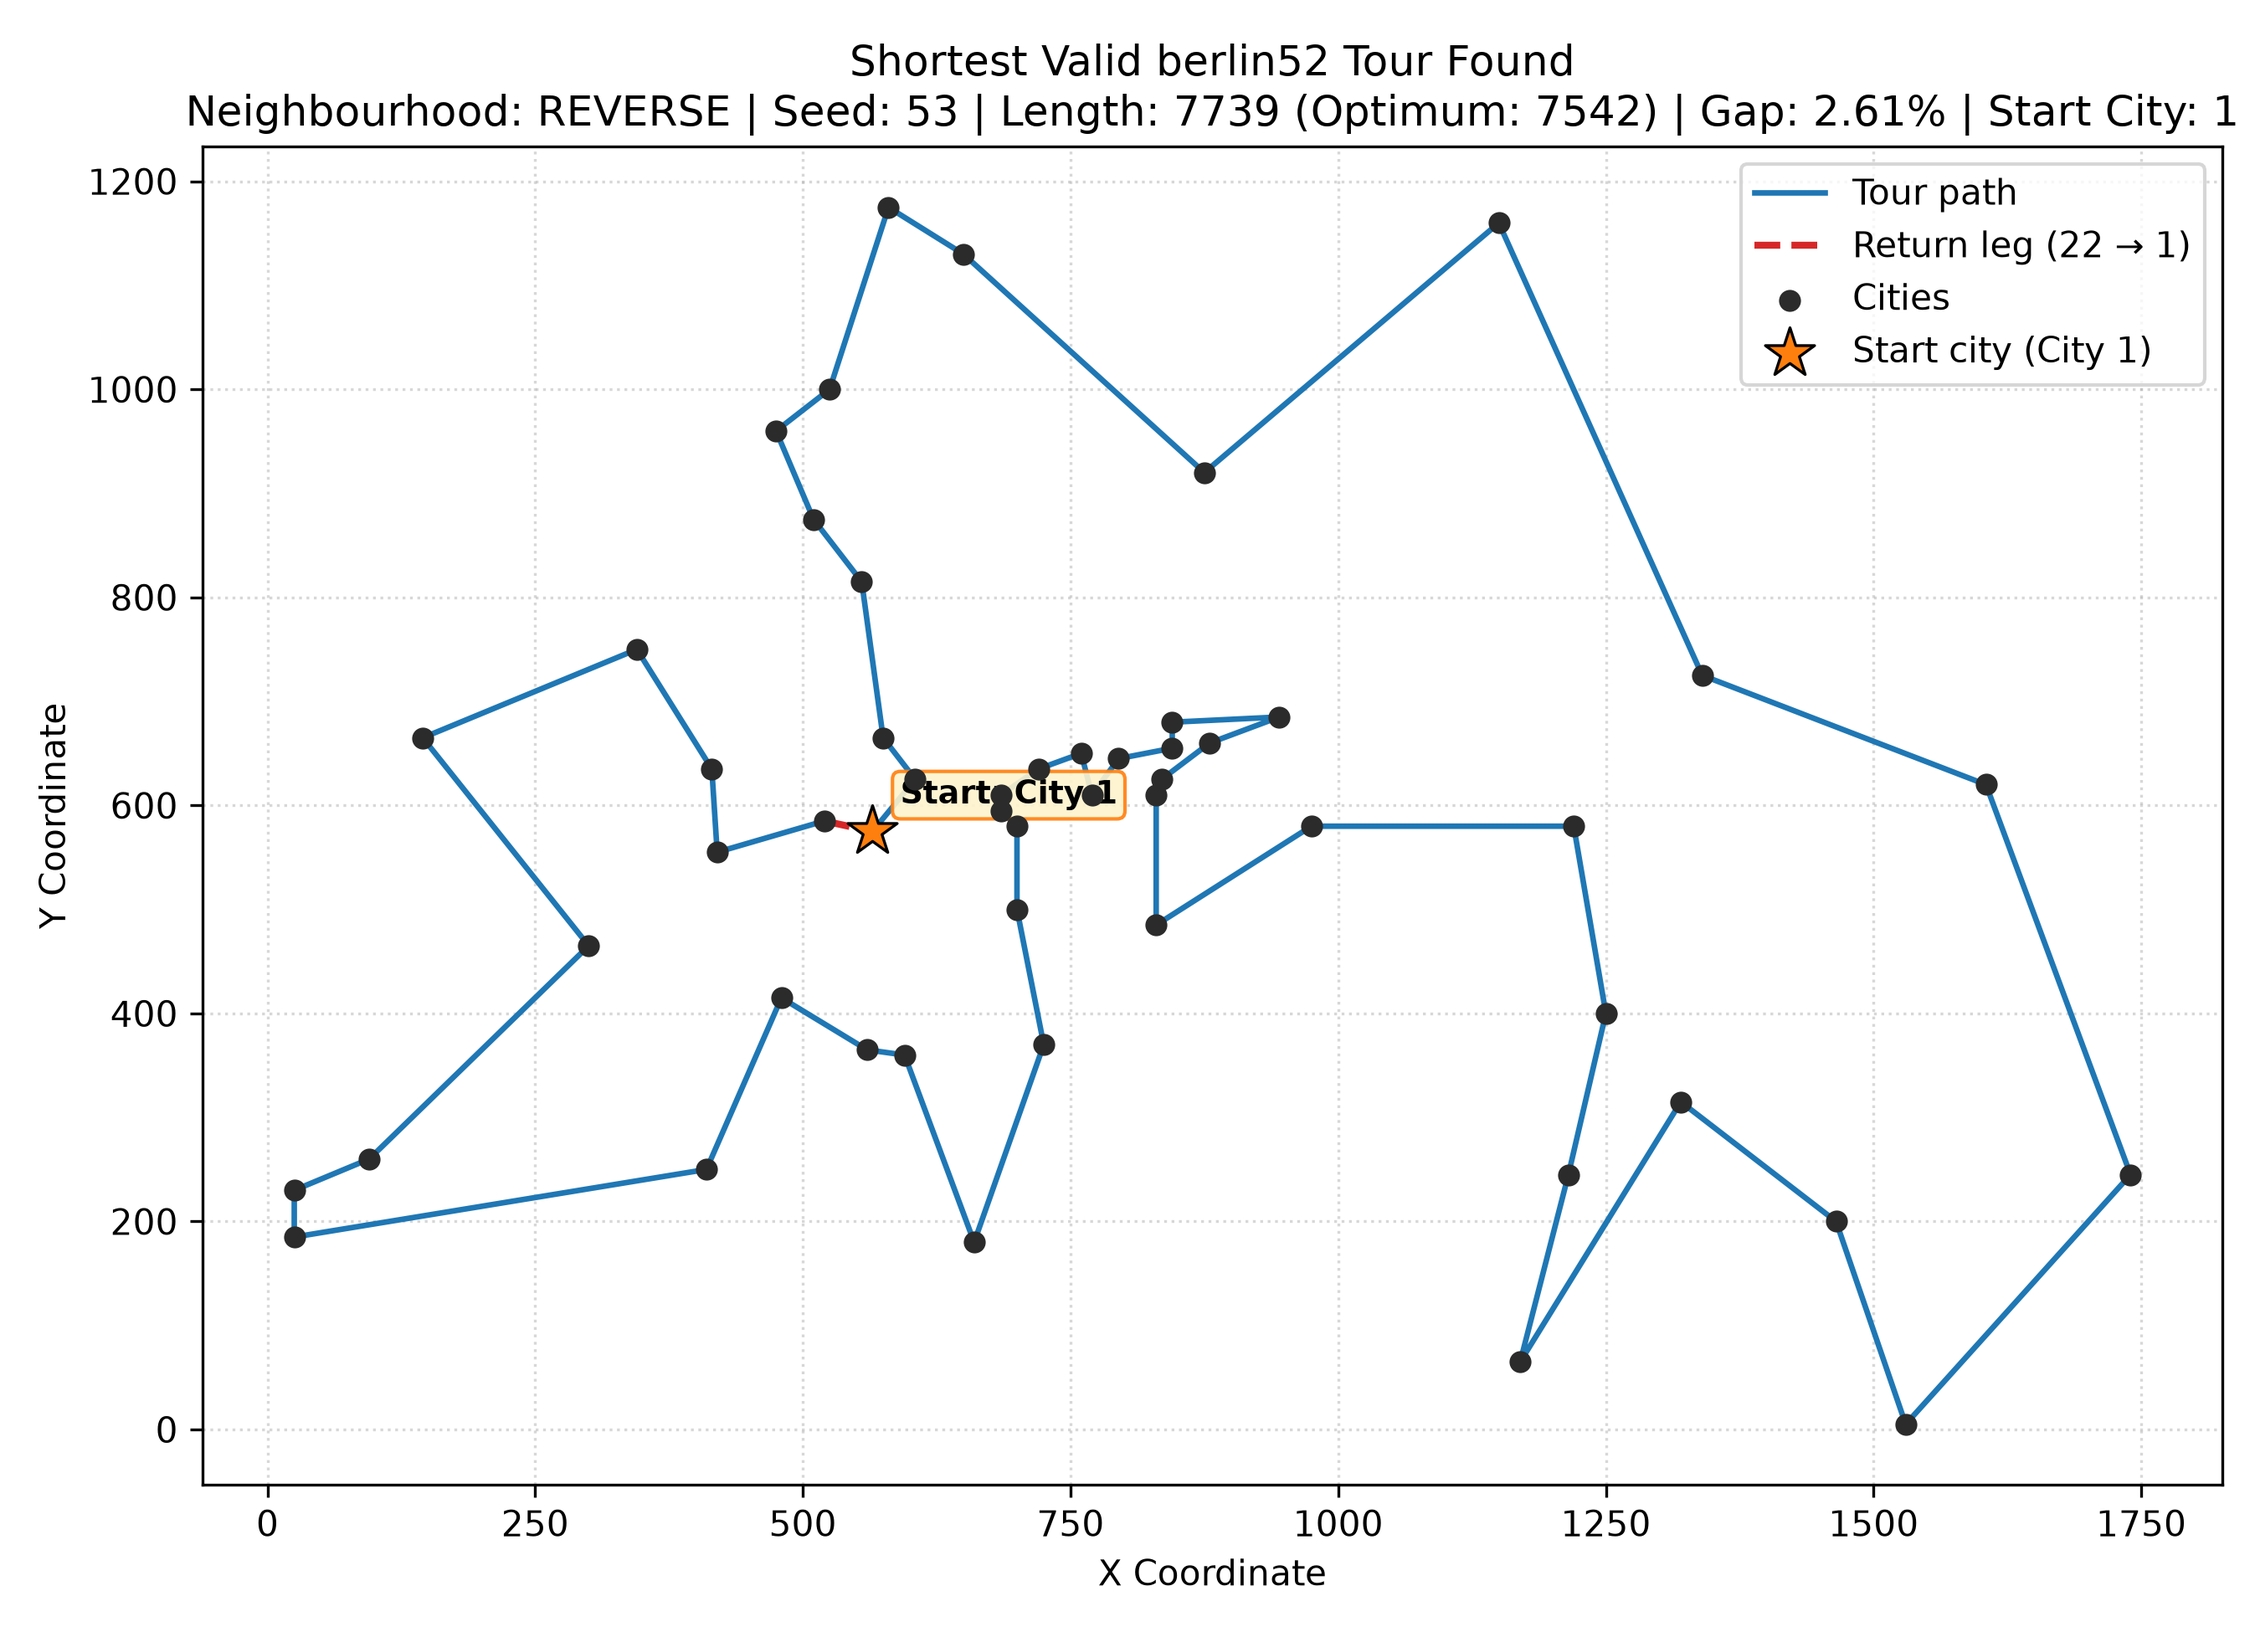
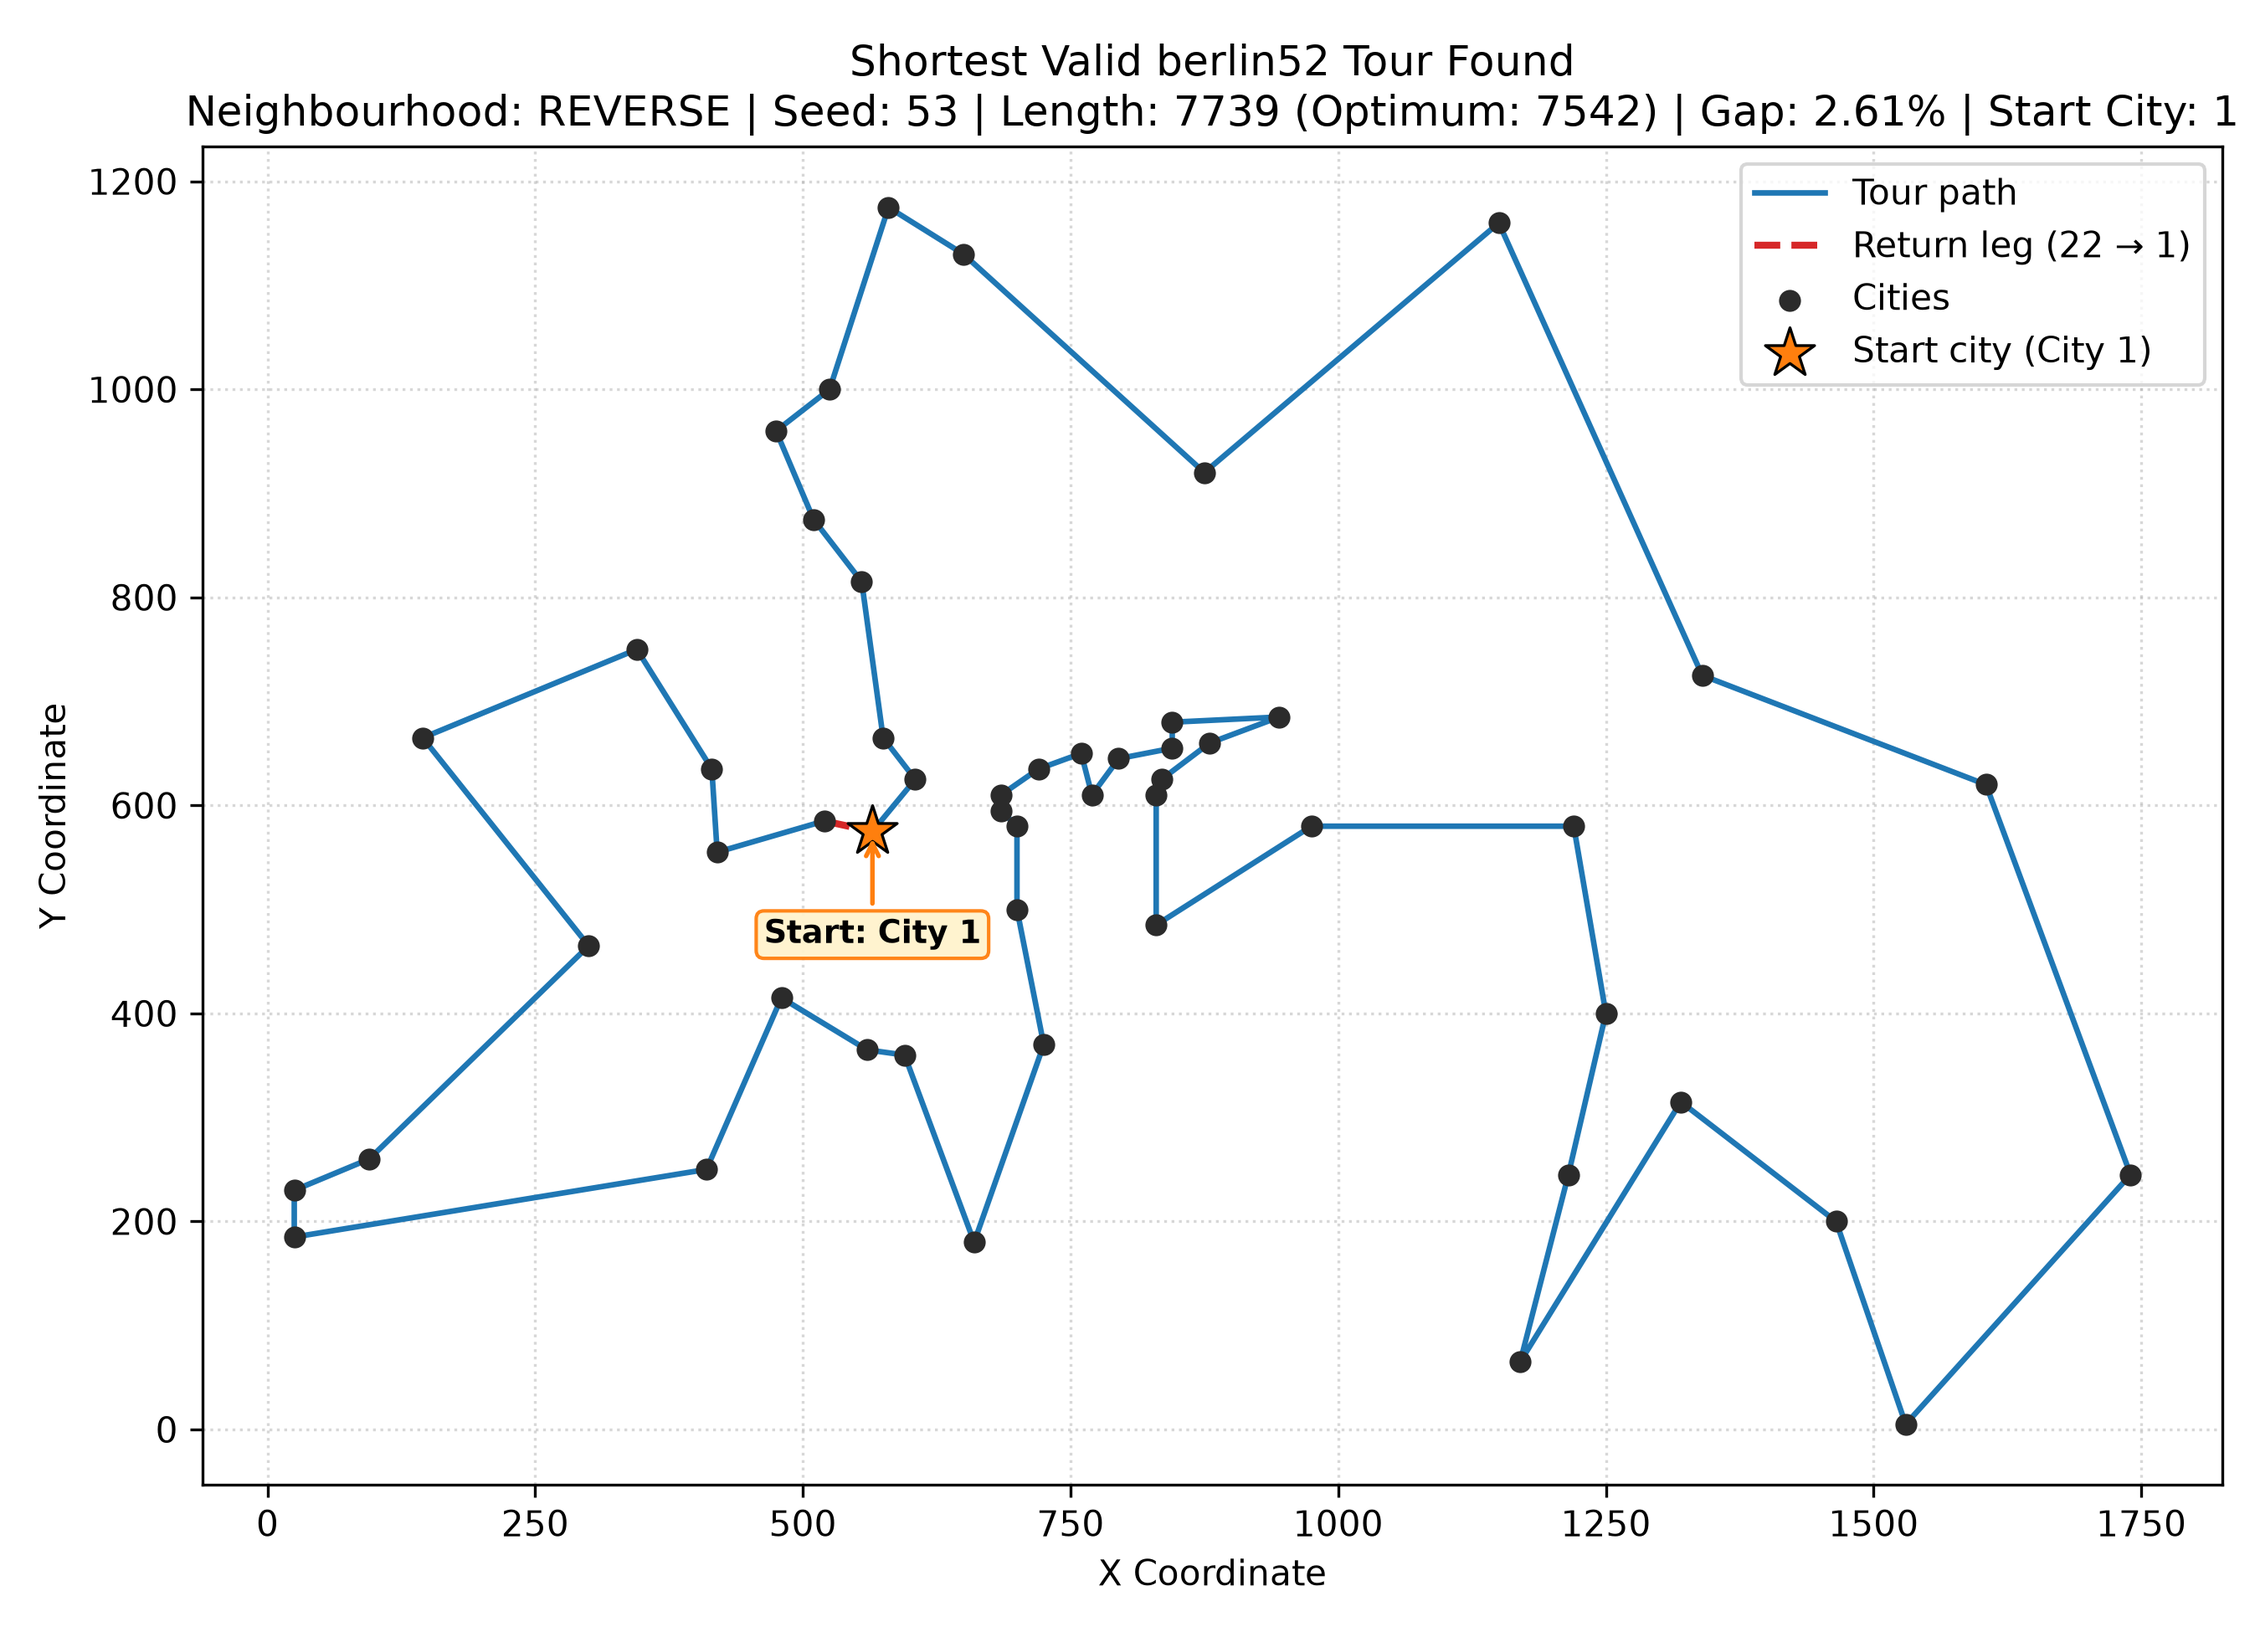
fix(ba): remove duplicate boxplot fliers and reposition berlin52 start label

Changed region(s): [[0.3733, 0.4615, 0.4978, 0.5231], [0.3111, 0.5538, 0.4356, 0.6154]]

diff --git a/bees_algorithm/utils/plotting.py b/bees_algorithm/utils/plotting.py
@@ -216,11 +216,14 @@ def plot_best_berlin52_route(
     ax.annotate(
         f"Start: City {start_city}",
         xy=(coords[start_city][0], coords[start_city][1]),
-        xytext=(8, 8),
+        xytext=(0, -32),
         textcoords="offset points",
+        ha="center",
         fontsize=9,
         fontweight="bold",
-        bbox=dict(boxstyle="round,pad=0.25", fc="#fff3cd", ec="#ff7f0e", alpha=0.9),
+        bbox=dict(boxstyle="round,pad=0.25", fc="#fff3cd", ec="#ff7f0e", alpha=0.95),
+        arrowprops=dict(arrowstyle="->", color="#ff7f0e", lw=1.3),
+        zorder=6,
     )
 
     tour_len = float(best_row["final_best"])
@@ -354,6 +357,7 @@ def plot_d30_boxplots(
         ax.boxplot(
             vals,
             widths=0.45,
+            showfliers=False,
             patch_artist=True,
             boxprops=dict(facecolor="#cfe2f3", color="#1f77b4", linewidth=1.3),
             medianprops=dict(color="#d62728", linewidth=1.8),
